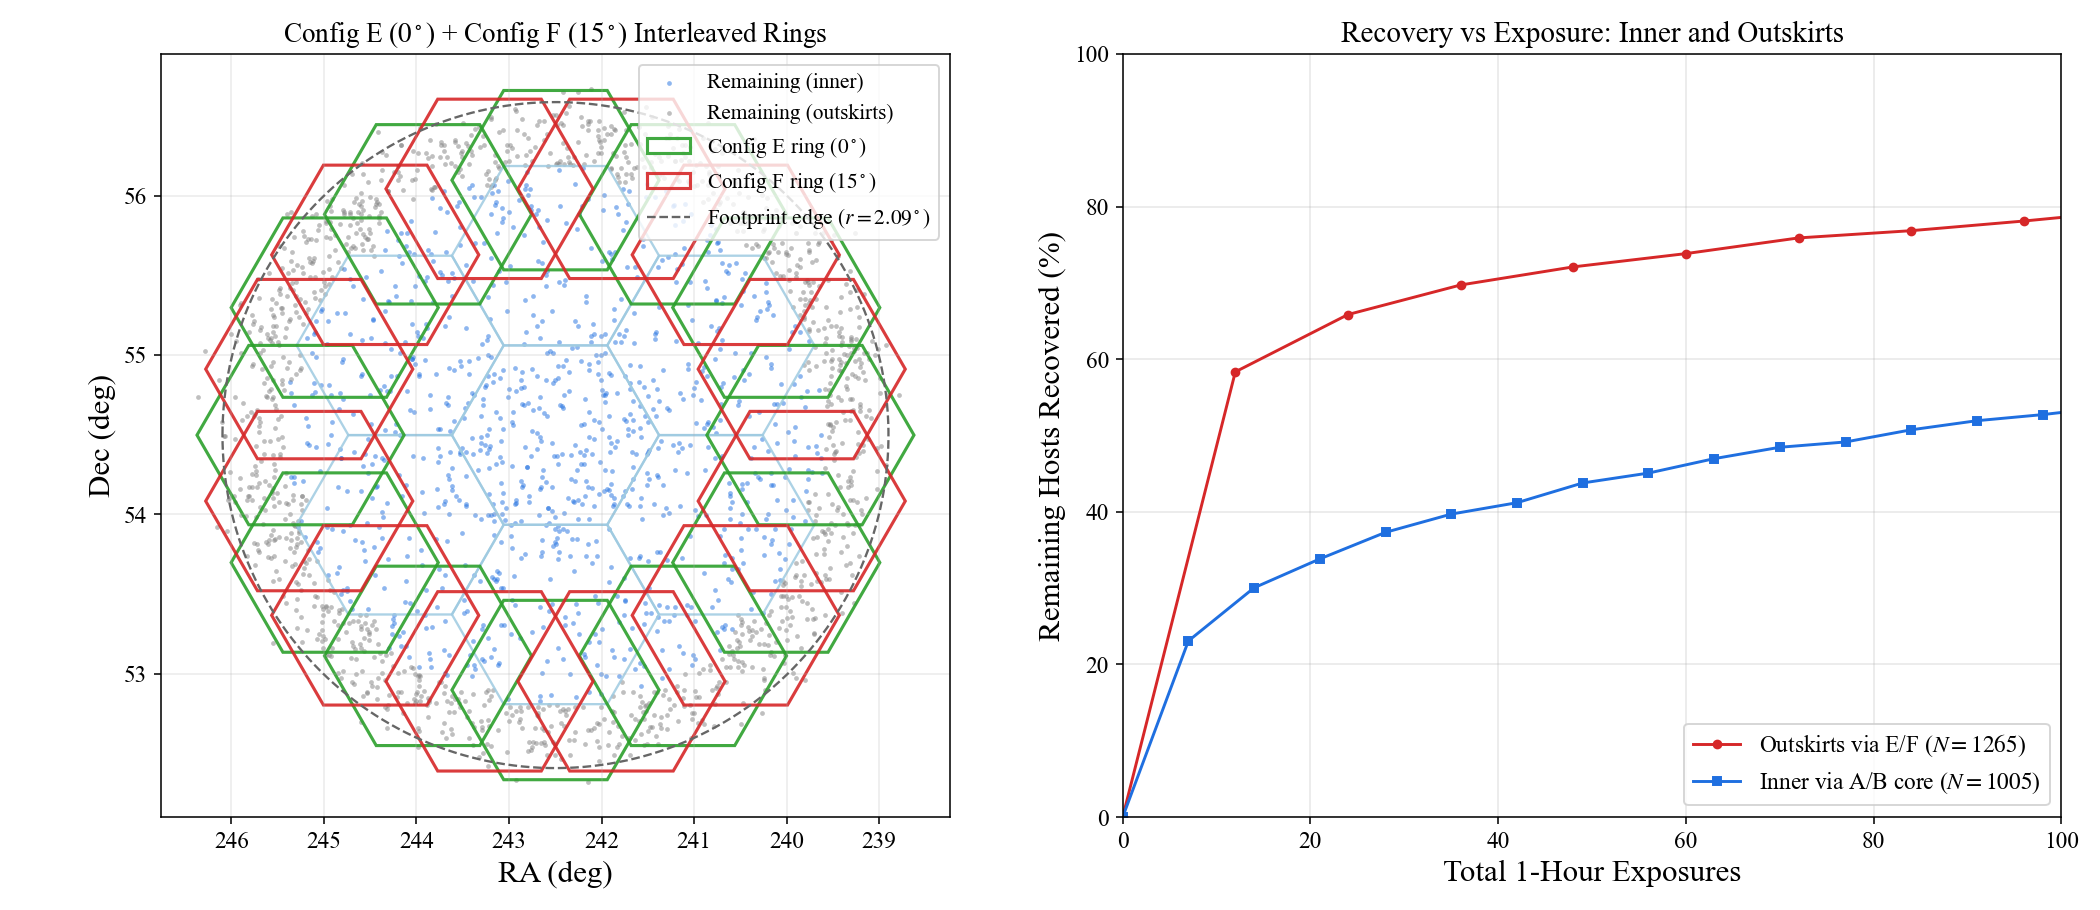
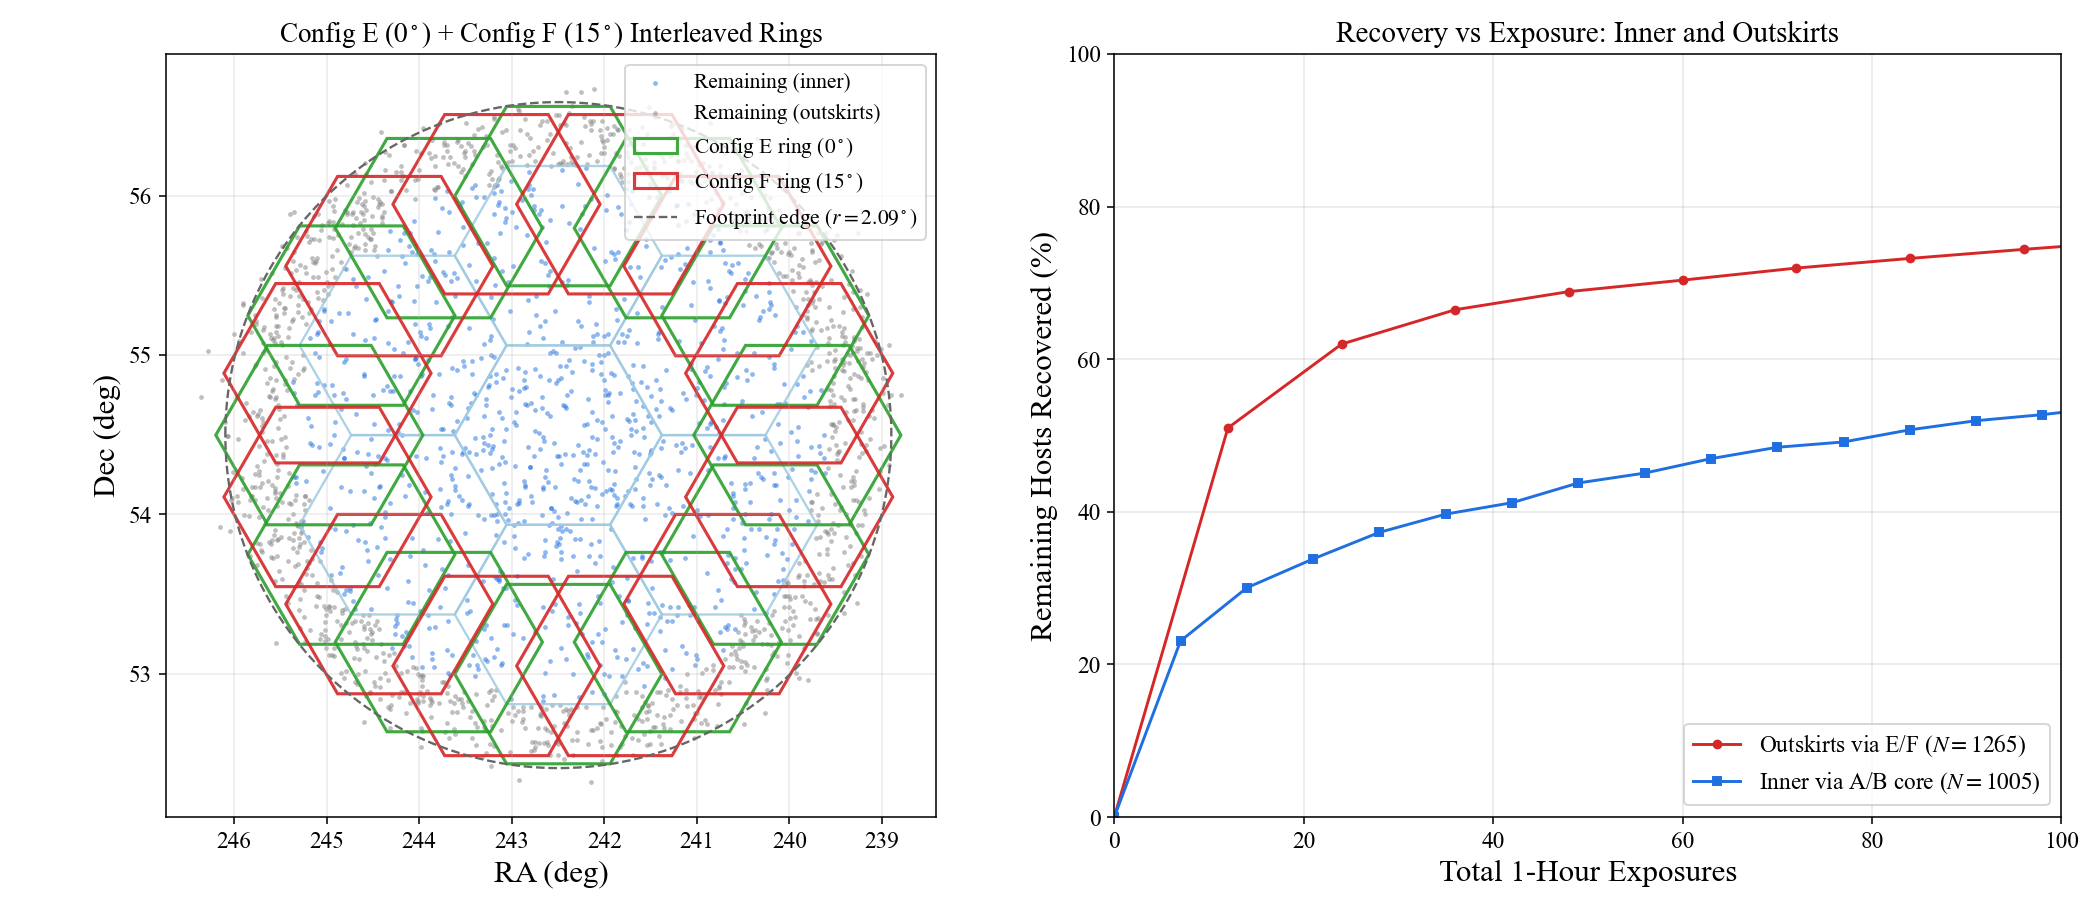
Optimize Config E+F ring radius: r=1.5 deg gives 100% fill (no empty space) + 95% coverage; shrink 21, redo 22 for E+F

diff --git a/programs_pfs/22_config_e_radius.py b/programs_pfs/22_config_e_radius.py
@@ -52,10 +52,11 @@ def main():
     inhex = Path(hexagon(0, 0)).contains_points(np.column_stack([gx, gy]))
     gx, gy = gx[inhex], gy[inhex]
 
-    radii = np.round(np.arange(1.30, 2.001, 0.025), 3)
+    radii = np.round(np.arange(1.25, 2.001, 0.025), 3)
     cov, fill = [], []
     for rr in radii:
-        cen = [(rr * np.cos(2 * np.pi * k / M), rr * np.sin(2 * np.pi * k / M)) for k in range(M)]
+        cen = [(rr * np.cos(np.radians(p + 360 * k / M)), rr * np.sin(np.radians(p + 360 * k / M)))
+               for p in (0.0, 15.0) for k in range(M)]      # Config E + Config F = 24 pointings
         ncov = np.zeros(len(pts), int); fr = []
         for xc, yc in cen:
             ncov += Path(hexagon(xc, yc)).contains_points(pts).astype(int)
@@ -64,17 +65,13 @@ def main():
         fill.append(100 * np.mean(fr))
     cov, fill = np.array(cov), np.array(fill)
     prod = cov * fill / 100.0
-    r_bal = radii[np.argmax(prod)]                       # balanced optimum
-    ok = fill >= 90
-    r_cov90 = radii[ok][np.argmax(cov[ok])]              # max coverage with fill>=90
-    r_full = radii[fill >= 99.5].max()                   # largest fully-filled ring
-    print(f"outskirt hosts: {nout}")
-    print(f"  balanced optimum (max coverage*fill): r = {r_bal:.2f} deg  "
+    r_nospill = radii[fill >= 99.5].max()                # largest ring with no empty space
+    r_bal = radii[np.argmax(prod)]                       # balanced (coverage*fill) optimum
+    print(f"outskirt hosts: {nout}  (Config E+F = 24 pointings)")
+    print(f"  no empty space (fill=100%), max coverage: r = {r_nospill:.2f} deg  "
+          f"(cov {cov[radii==r_nospill][0]:.0f}%, fill 100%)")
+    print(f"  balanced optimum (max coverage*fill):     r = {r_bal:.2f} deg  "
           f"(cov {cov[radii==r_bal][0]:.0f}%, fill {fill[radii==r_bal][0]:.0f}%)")
-    print(f"  max coverage with fill>=90%:          r = {r_cov90:.2f} deg  "
-          f"(cov {cov[radii==r_cov90][0]:.0f}%, fill {fill[radii==r_cov90][0]:.0f}%)")
-    print(f"  100% filled (no spillover):           r = {r_full:.2f} deg  "
-          f"(cov {cov[radii==r_full][0]:.0f}%, fill 100%)")
 
     # ---- figure ----
     import matplotlib
@@ -93,13 +90,12 @@ def main():
     ax.plot(radii, cov, "-o", color="#1f6fe0", ms=3.5, label="Coverage of outskirt hosts")
     ax.plot(radii, fill, "-s", color="#d62728", ms=3.5, label="Mean FoV fill (inside footprint)")
     ax.plot(radii, prod, "-", color="#2ca02c", lw=2.2, label="Coverage $\\times$ fill (figure of merit)")
-    ax.axhline(90, color="0.6", ls=":", lw=1)
-    ax.axvline(r_bal, color="0.4", ls="--", lw=1.3)
-    ax.text(r_bal, 4, f"  optimum $r={r_bal:.2f}^\\circ$", rotation=90, va="bottom",
-            ha="left", fontsize=12, color="0.3")
-    ax.set_xlabel("Config E Ring Radius (deg)", fontsize=17)
+    ax.axvline(r_nospill, color="0.4", ls="--", lw=1.3)
+    ax.text(r_nospill, 4, f"  no empty space, $r={r_nospill:.2f}^\\circ$ (cov {cov[radii==r_nospill][0]:.0f}\\%)",
+            rotation=90, va="bottom", ha="left", fontsize=12, color="0.3")
+    ax.set_xlabel("Config E+F Ring Radius (deg)", fontsize=17)
     ax.set_ylabel("Percent", fontsize=17)
-    ax.set_title("Optimizing the Config E Ring Radius (12 Pointings)", fontsize=15)
+    ax.set_title("Optimizing the Config E+F Ring Radius (24 Pointings)", fontsize=15)
     ax.set_ylim(0, 105); ax.set_xlim(radii.min(), radii.max())
     ax.tick_params(labelsize=13); ax.legend(fontsize=12, loc="lower center"); ax.grid(True, alpha=0.3)
 

diff --git a/programs_pfs/21_config_ef.py b/programs_pfs/21_config_ef.py
@@ -23,7 +23,7 @@ CSV = os.path.join(HERE, "outputs", "csv", "07_program_sne_ELAIS-N1.csv")
 RA0, DEC0 = 242.498, 54.497
 FOV = 1.3
 R = FOV / 2.0
-R_RING = 1.6
+R_RING = 1.5        # optimized for E+F: 100% FoV fill (no empty space), 95% coverage
 M = 12
 R_FOOT = 2.09
 